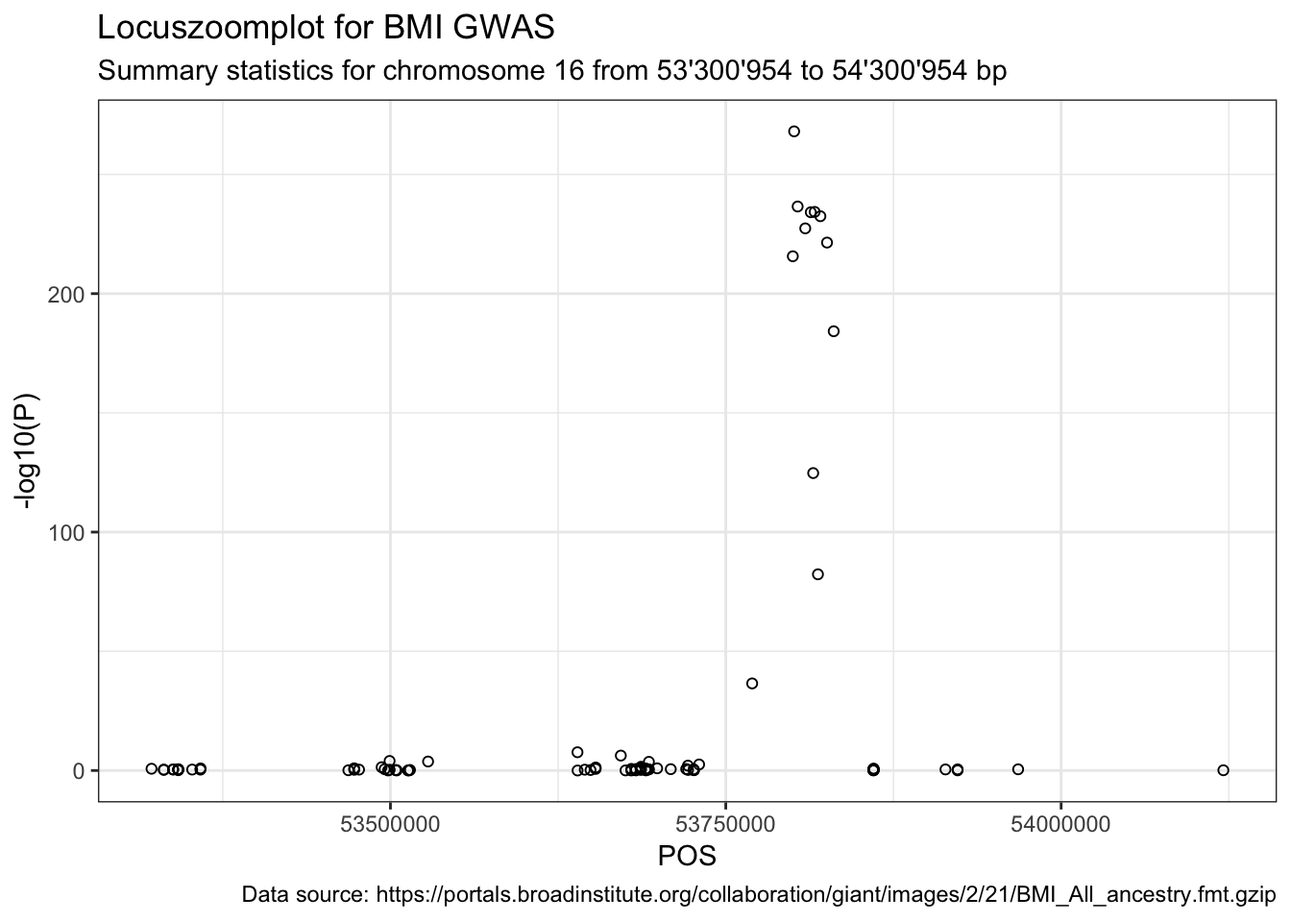
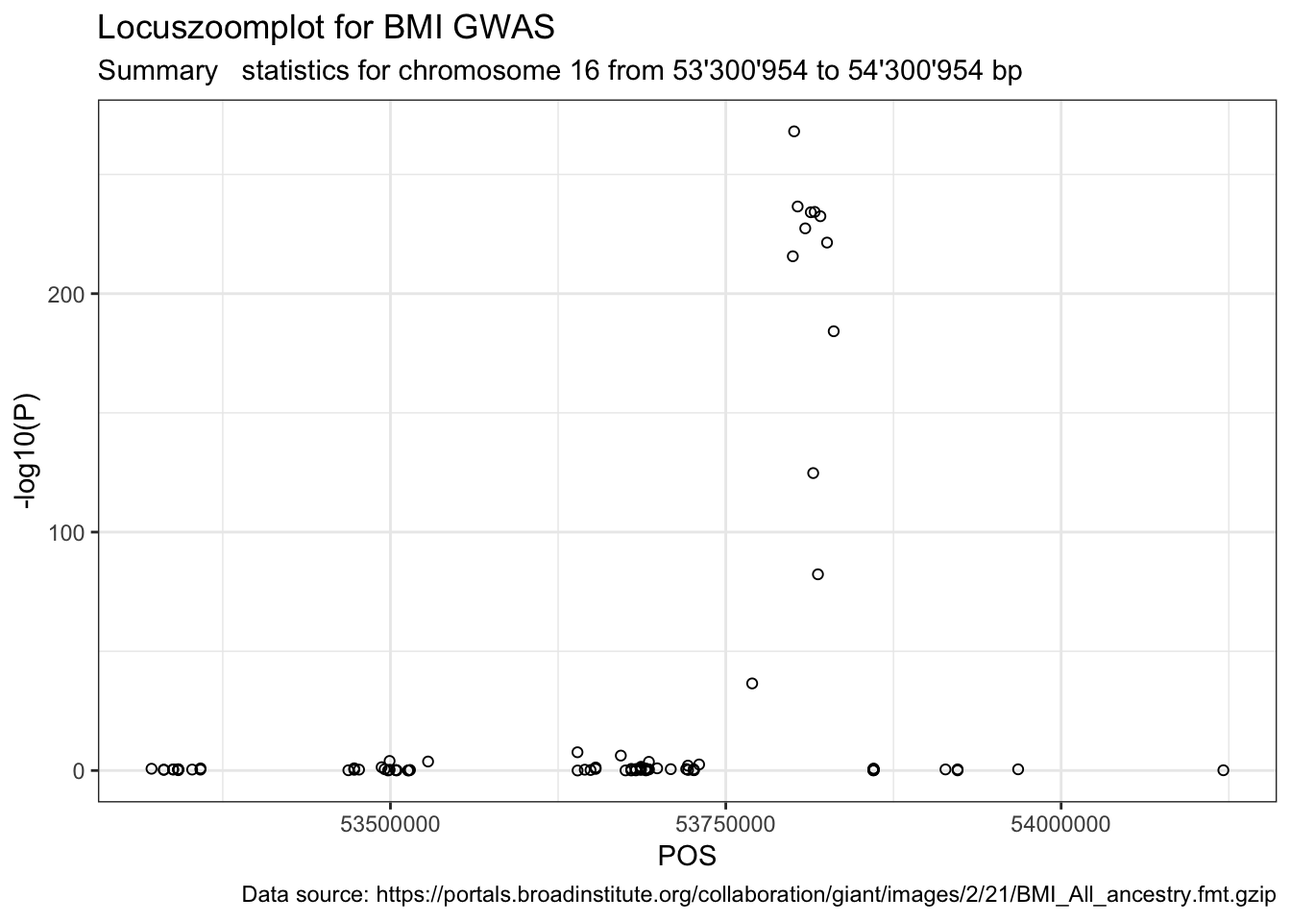
last read through + change color palette

Changed region(s): [[0.1562, 0.0625, 0.8125, 0.0938]]

diff --git a/2018/07/30/locuszoomplot/index.html b/2018/07/30/locuszoomplot/index.html
@@ -112,15 +112,15 @@
 
 <!--make a plot, that did not work with knitting-->
 <!-- what do we want -->
-<p>In the world of <a href="https://www.acsh.org/news/2018/07/27/genome-wide-association-studies-acsh-explains-13234">genome-wide association studies</a> (GWAS) we often get a list of genetic markers (<a href="https://en.wikipedia.org/wiki/Single-nucleotide_polymorphism">SNPs</a>) that seem for some reason relevant for a particular outcome. At the same time, we have little knowledge about these genetic variants that come in cryptic combinations of characters and numbers.</p>
+<p>In the world of <a href="https://www.acsh.org/news/2018/07/27/genome-wide-association-studies-acsh-explains-13234">genome-wide association studies</a> (GWAS) we<a href="#fn1" class="footnoteRef" id="fnref1"><sup>1</sup></a> often get a list of genetic markers (<a href="https://en.wikipedia.org/wiki/Single-nucleotide_polymorphism">SNPs</a>) that seem for some reason relevant for a particular outcome. At the same time, we have little knowledge about these genetic variants that come in cryptic combinations of characters and numbers.</p>
 <p><em>For example:</em></p>
 <ul>
 <li><em>We might get asked how frequent the SNP <a href="https://www.ensembl.org/Homo_sapiens/Variation/Explore?r=16:53766542-53767542;v=rs1421085;vdb=variation;vf=984887"><code>rs1421085</code></a> is in <a href="https://www.ensembl.org/Homo_sapiens/Variation/Population?r=16:53766542-53767542;v=rs1421085;vdb=variation;vf=984887">a range of populations.</a> </em></li>
 <li><em>We need to extract all known SNPs that are within 1 Mb of <code>rs1421085</code>. </em></li>
 <li><em>A genomic region turns out to be highly relevant for some disease and we want to know all genes contained in that genomic region.</em></li>
 </ul>
-<p>Unless you sit on lots of genetic data, the list of SNPs come from a summarised form. Minimally, these summary statistic datasets contain the SNP identifier (<code>SNPNAME</code>, for example <code>rs149969323</code>), the effect size (<code>beta</code>) and the standard error (<code>se</code>). Sometimes the position (<code>POS</code>) and chromosome (<code>CHR</code>) is provided instead of the SNP identifier, and sometimes both are available. Then there is usually other information coming from the study data, for example the allele frequency in the study <i class="ion  ion-arrow-right-a "></i> this is on the LHS in table below. However, hardly ever do the datasets contain <font color="#31a354">annotation</font>, such as the <a href="https://www.cancer.gov/publications/dictionaries/cancer-terms/def/gene">gene</a> where the SNP resides, the phenotypes it is associated with or the minor allele frequency (MAF) in a certain population or <i class="ion  ion-arrow-right-a "></i> this is illustrated in the <font color="#31a354">green</font> colored part in table below.</p>
-<table class="table table-striped table" style="width: auto !important; margin-left: auto; margin-right: auto; font-size: 12px; margin-left: auto; margin-right: auto;">
+<p>Unless you sit on lots of genetic data, the list of SNPs come from a summarised form. Minimally, these summary statistic datasets contain the SNP identifier (<code>SNPNAME</code>), the effect size (<code>beta</code>) and the standard error (<code>se</code>). Sometimes the position (<code>POS</code>) and chromosome (<code>CHR</code>) is provided instead of the SNP identifier, and sometimes both are available. Then there is usually other information coming from the study data, for example the allele frequency in the study <i class="ion  ion-arrow-right-a "></i> this is shown on the LHS in table below. However, hardly ever do the datasets contain <font color="#31a354">annotation</font>, such as the <a href="https://www.cancer.gov/publications/dictionaries/cancer-terms/def/gene">gene</a> where the SNP resides, the phenotypes it is associated with or the minor allele frequency (MAF) in a certain population or <i class="ion  ion-arrow-right-a "></i> this is illustrated in the <font color="#31a354">green</font> colored part in table below.</p>
+<table class="table table-striped table" style="width: auto !important; margin-left: auto; margin-right: auto; font-size: 13px; margin-left: auto; margin-right: auto;">
 <thead>
 <tr>
 <th style="border-bottom:hidden; padding-bottom:0; padding-left:3px;padding-right:3px;text-align: center; " colspan="7">
@@ -160,7 +160,7 @@ se
 Gene
 </th>
 <th style="text-align:left;">
-Phenotype
+Linked phenotype
 </th>
 <th style="text-align:right;">
 Global MAF
@@ -334,22 +334,21 @@ BMI
 <p>To get our hands on annotation, we need to consult external databases that are - lucky us! - public. But first, let us define what we want to see at the <a href="#end">end</a> of the blogpost.</p>
 <div id="goal" class="section level2">
 <h2>Goal</h2>
-<p>For this blogpost, we keep it simple and only focus on the <strong>genes contained in a genomic region</strong>, but this can be easily extended to any other annotation.</p>
-<p>In the illustration below<a href="#fn1" class="footnoteRef" id="fnref1"><sup>1</sup></a>, we want to know the gene starting and end positions around one particular gene region to create an informative locuszoom plot.</p>
+<p>For this blogpost, we keep it simple and only focus on the <strong>genes contained in a genomic region</strong>, but this can be easily extended to any other annotation available in databases.</p>
+<p>In the illustration below<a href="#fn2" class="footnoteRef" id="fnref2"><sup>2</sup></a>, we want to know the gene starting and end positions around one particular gene region to create an informative locuszoom plot.</p>
 <figure>
 <img src="/post/annotation/locuszoom-sketch.png" alt="Drawing of a table." align="middle" style="width: 600px;"/>
 <figcaption>
 <small>In this case, we want to visualise the GWAS P-value (-log10(P-value)) of a genomic region (with each point representing a SNP), with the corresponding genes at the bottom. This is similar to a plot done with <a href="http://locuszoom.org/">LocusZoom</a>, a tool that takes summary statistics as input and outputs a pretty graph for a desired genomic region, including gene annotation, LD information and more. </small>
 </figcaption>
 </figure>
-<p>Annotation of a SNP can be its gene, the function of the gene, which which phenotypes the gene is associated.</p>
 </div>
 <div id="getting-it-done" class="section level2">
 <h2>Getting it done</h2>
 <!---
 
 <!-- how can we achieve this? -->
-<p>There are currently more than 10 Mio SNPs known, and knowing their functions and genes by heart would equal to some super power. Which is why we <i class="ion  ion-heart "></i><a href="#fn2" class="footnoteRef" id="fnref2"><sup>2</sup></a> public databases, such as <a href="https://www.ncbi.nlm.nih.gov/projects/SNP/">dbSNP</a> and <a href="https://www.ensembl.org/index.html">ensembl</a><a href="#fn3" class="footnoteRef" id="fnref3"><sup>3</sup></a>.</p>
+<p>There are currently more than 10 Mio SNPs known, and knowing their functions and genes by heart would equal to some super power. Which is why we <i class="ion  ion-heart "></i><a href="#fn3" class="footnoteRef" id="fnref3"><sup>3</sup></a> public databases, such as <a href="https://www.ncbi.nlm.nih.gov/projects/SNP/">dbSNP</a> and <a href="https://www.ensembl.org/index.html">ensembl</a><a href="#fn4" class="footnoteRef" id="fnref4"><sup>4</sup></a>.</p>
 <p>What we like even more, is, to make our analyses reproducible and automate annotation and lookups.</p>
 <p><i class="ion  ion-arrow-right-a "></i> In this blogpost, I will show how to zoom into GWAS results and annotate the plot based on the information about that genomic region using R. <!--r icon::ii_r_project().--></p>
 <!-- why do we need a locus zoom plot anyway ?-->
@@ -366,7 +365,7 @@ BMI
 <p>First, we need some GWAS summary statistics.</p>
 <p>There are lots of <a href="https://github.com/sinarueeger/statistical-genetics-resources/blob/master/statgen-data.md#gwas-summary-statistic-results"><strong>resources</strong></a> for publicly available GWAS summary statistics.</p>
 <!-- For example, if you would like to download the latest MDD results, search for *'MDD2 2018'*, for BD and SCZ search for *'BIP and SCZ results from Cell Publication, 2018'*.-->
-<p>We will look at BMI, because it can be accessed easily<a href="#fn4" class="footnoteRef" id="fnref4"><sup>4</sup></a> and because it is fairly small for a genomic dataset. The data is from the <a href="https://portals.broadinstitute.org/collaboration/giant/index.php/GIANT_consortium_data_files">Genetic Investigation of ANthropometric Traits</a> (GIANT) consortium. You can <strong>download</strong> the dataset<a href="#fn5" class="footnoteRef" id="fnref5"><sup>5</sup></a> <a href="https://portals.broadinstitute.org/collaboration/giant/index.php/GIANT_consortium_data_files#GWAMA_Age-.2FSex-Stratified_2015_BMI_and_WHR">here</a> or load it <strong>directly into R</strong>.</p>
+<p>We will look at BMI, because it can be accessed easily<a href="#fn5" class="footnoteRef" id="fnref5"><sup>5</sup></a> and because it is fairly small for a genomic dataset. The data is from the <a href="https://portals.broadinstitute.org/collaboration/giant/index.php/GIANT_consortium_data_files">Genetic Investigation of ANthropometric Traits</a> (GIANT) consortium. You can <strong>download</strong> the dataset<a href="#fn6" class="footnoteRef" id="fnref6"><sup>6</sup></a> <a href="https://portals.broadinstitute.org/collaboration/giant/index.php/GIANT_consortium_data_files#GWAMA_Age-.2FSex-Stratified_2015_BMI_and_WHR">here</a> or load it <strong>directly into R</strong>.</p>
 <pre class="r"><code>## Data Source URL
 url &lt;- &quot;https://portals.broadinstitute.org/collaboration/giant/images/2/21/BMI_All_ancestry.fmt.gzip&quot;
 
@@ -413,7 +412,7 @@ dat.bmi &lt;- dat.bmi %&gt;% rename(SNP = SNPNAME, P = Pvalue)</code></pre>
 <p>This dataset has 246328 rows and 10 columns. What if we want to visualise this all at once? In particularly, we are interested if there are ANY associations between the genetic markers and BMI. The mini <code>P</code> distribution in the skimr output does not reveal much.</p>
 <div id="visualising-associations" class="section level3">
 <h3>Visualising associations</h3>
-<p>Visualising all associations at once can be done with a Manhattan plot, where the x-axis represents chromosome<code>CHR</code> and the chromosomal position <code>POS</code>, and the y-axis the <code>-log10(P)</code>-value. Let’s use the R-package <code>qqman</code><a href="#fn6" class="footnoteRef" id="fnref6"><sup>6</sup></a> for that.</p>
+<p>Visualising all associations at once can be done with a Manhattan plot, where the x-axis represents chromosome<code>CHR</code> and the chromosomal position <code>POS</code>, and the y-axis the <code>-log10(P)</code>-value. Let’s use the R-package <code>qqman</code><a href="#fn7" class="footnoteRef" id="fnref7"><sup>7</sup></a> for that.</p>
 <pre class="r"><code>qqman::manhattan(dat.bmi %&gt;% mutate(CHR = as.numeric(as.character(fct_recode(CHR, &quot;23&quot; = &quot;X&quot;)))) %&gt;%   filter(-log10(P)&gt;1), chr=&quot;CHR&quot;, bp=&quot;POS&quot;, snp=&quot;SNP&quot;, p=&quot;P&quot;, suggestiveline =FALSE, genomewideline = FALSE, chrlabs = c(1:22, &quot;X&quot;), cex = 0.4)</code></pre>
 <p><img src="/post/2018-07-04-plotting-local-genomic-association-results-in-r_files/figure-html/mhtplot-1.png" width="672" /></p>
 <p>We can spot immediately, that there are loads of SNPs with P-values smaller than <span class="math inline">\(10^{-100}\)</span> (sample size was around <a href="https://www.biorxiv.org/content/early/2018/03/22/274654">700K</a>).</p>
@@ -426,7 +425,7 @@ QQplot(dat.bmi$P)
 </div>
 <div id="identify-genomic-region-with-lowest-p-value" class="section level3">
 <h3>Identify genomic region with lowest P-value</h3>
-<p>Now that we know that there are lots of genetic markers associated with BMI, we want to look at a specific genomic region and figure out what genes it contains. For illustration, we pick the genomic region with the lowest P-value.</p>
+<p>Now that we know that there are lots of genetic markers associated with BMI, we want to look at a specific genomic region and figure out what genes it contains. For illustrative purposes, we pick the genomic region with the lowest P-value.</p>
 <pre class="r"><code>dat.bmi.sel &lt;- dat.bmi %&gt;% slice(which.min(P))
 dat.bmi.sel</code></pre>
 <pre><code>## # A tibble: 1 x 10
@@ -434,14 +433,16 @@ dat.bmi.sel</code></pre>
 ##   &lt;chr&gt;    &lt;int&gt; &lt;chr&gt; &lt;chr&gt; &lt;chr&gt;   &lt;chr&gt; &lt;chr&gt;    &lt;dbl&gt;  &lt;dbl&gt;     &lt;dbl&gt;
 ## 1 16    53800954 T     C     rs1421… C:0.… -        0.078 0.0022 8.60e-269</code></pre>
 <p>SNP identifier rs1421085 that has the lowest P-value (<span class="math inline">\(P = 8.6\times 10^{-269}\)</span>).</p>
-<p>Now we can visualise the summary statistics of that genomic region (<span class="math inline">\(\pm 500 x 10^{3}\)</span>).</p>
+<p>Now we can visualise the summary statistics of that genomic region (<span class="math inline">\(\pm 500 \cdot 10^{3}\)</span>).</p>
 <pre class="r"><code>range &lt;- 5e+05
 sel.chr &lt;- dat.bmi.sel$CHR
 sel.pos &lt;- dat.bmi.sel$POS
 
 dat.bmi.sel.region &lt;- dat.bmi %&gt;% filter(CHR == sel.chr, between(POS, sel.pos - 
       range, sel.pos + range))</code></pre>
-<pre class="r"><code>p1 &lt;- ggplot(data = dat.bmi.sel.region) + geom_point(aes(POS, -log10(P)), shape = 1) + labs(title = &quot;Locuszoomplot for BMI GWAS&quot;, subtitle = paste(&quot;Summary statistics for chromosome&quot;, sel.chr, &quot;from&quot;, format((sel.pos - range), big.mark = &quot;&#39;&quot;), &quot;to&quot;, format((sel.pos + range), big.mark = &quot;&#39;&quot;), &quot;bp&quot;), caption = paste(&quot;Data source:&quot;, url))
+<pre class="r"><code>p1 &lt;- ggplot(data = dat.bmi.sel.region) + 
+  geom_point(aes(POS, -log10(P)), shape = 1) + 
+  labs(title = &quot;Locuszoomplot for BMI GWAS&quot;, subtitle = paste(&quot;Summary   statistics for chromosome&quot;, sel.chr, &quot;from&quot;, format((sel.pos - range), big.mark = &quot;&#39;&quot;), &quot;to&quot;, format((sel.pos + range), big.mark = &quot;&#39;&quot;), &quot;bp&quot;), caption = paste(&quot;Data source:&quot;, url))
 print(p1)</code></pre>
 <p><img src="/post/2018-07-04-plotting-local-genomic-association-results-in-r_files/figure-html/plot-summarystats-1.png" width="672" /></p>
 <p>Next, we want to know if rs1421085 is part of a gene, and if yes, which one.</p>
@@ -462,21 +463,21 @@ Did you ever want to reproducibly retrieve thousands of genomes across the tree 
 </blockquote>
 <script async src="https://platform.twitter.com/widgets.js" charset="utf-8"></script>
 <p>So far, I did not fully grasp the benefits of <code>biomartr</code> compared to <code>biomaRt</code> for annotation of human data. But I will definitely <a href="https://ropensci.github.io/biomartr/articles/Functional_Annotation.html">look more into it</a>.</p>
-<p><a href="https://twitter.com/MariannaFoos">Marianna Foos</a> pointed out another great R-package dealing with SNP annotation called <a href="https://cran.r-project.org/web/packages/rsnps/vignettes/rsnps_vignette.html"><code>rsnps</code></a>.</p>
+<p>I also got a tip from <a href="https://twitter.com/MariannaFoos">Marianna Foos</a> to check out <a href="https://cran.r-project.org/web/packages/rsnps/vignettes/rsnps_vignette.html"><code>rsnps</code></a>, an R-package dealing with SNP annotation.</p>
 </div>
 <div id="learning-resources" class="section level3">
 <h3>Learning resources</h3>
 <p>I used mainly two sources to learn what I wanted to do:</p>
 <ul>
-<li><a href="https://www.bioconductor.org/packages/devel/bioc/vignettes/biomaRt/inst/doc/biomaRt.html">Vignette of biomaRt</a> on Bioconductor<a href="#fn7" class="footnoteRef" id="fnref7"><sup>7</sup></a>.</li>
-<li><a href="https://stackoverflow.com/questions/41490657/best-way-to-get-list-of-snps-by-gene-id">A question on StackOverflow</a></li>
+<li><a href="https://www.bioconductor.org/packages/devel/bioc/vignettes/biomaRt/inst/doc/biomaRt.html">Vignette of biomaRt</a> on Bioconductor<a href="#fn8" class="footnoteRef" id="fnref8"><sup>8</sup></a>.</li>
+<li><a href="https://stackoverflow.com/questions/41490657/best-way-to-get-list-of-snps-by-gene-id">This question</a> on StackOverflow.</li>
 </ul>
 </div>
 <div id="using-biomart" class="section level3">
 <h3>Using biomaRt</h3>
-<p>First we need to load the <code>biomaRt</code> <a href="https://bioconductor.org/packages/release/bioc/html/biomaRt.html">package from Bioconductor</a>.</p>
+<p>First, we need to load the <code>biomaRt</code> <a href="https://bioconductor.org/packages/release/bioc/html/biomaRt.html">package from Bioconductor</a>.</p>
 <pre class="r"><code>library(biomaRt) </code></pre>
-<p>Next we specify which database to use. You can use the functions <code>listMart()</code>, <code>listEnsembl()</code> and <code>listDatasets()</code> to select from the right biomart and dataset. We will need to extract SNPs, hence the <code>biomart = &quot;snp&quot;</code>.</p>
+<p>Next we specify which database to use. You can use the functions <code>listMart()</code>, <code>listEnsembl()</code> and <code>listDatasets()</code> to select from the right biomart and dataset. We will need to extract SNPs, hence <code>biomart = &quot;snp&quot;</code>.</p>
 <pre class="r"><code>snp.ensembl &lt;- useEnsembl(biomart = &quot;snp&quot;, dataset = &quot;hsapiens_snp&quot;)
 
 class(snp.ensembl)</code></pre>
@@ -484,8 +485,8 @@ class(snp.ensembl)</code></pre>
 ## attr(,&quot;package&quot;)
 ## [1] &quot;biomaRt&quot;</code></pre>
 <pre class="r"><code># other ways of selecting the mart snp.mart &lt;- useMart(biomart =
-# &#39;ENSEMBL_MART_SNP&#39;, dataset=&#39;hsapiens_snp&#39;) gene.mart &lt;-
-# useMart(&#39;ensembl&#39;, dataset=&#39;hsapiens_gene_ensembl&#39;)</code></pre>
+# &#39;ENSEMBL_MART_SNP&#39;, dataset=&#39;hsapiens_snp&#39;) 
+# gene.mart &lt;- useMart(&#39;ensembl&#39;, dataset=&#39;hsapiens_gene_ensembl&#39;)</code></pre>
 <p>Last, we extract the gene id to which our SNP belongs using the function <code>getBM()</code>. Along with that we also extract other information, like the minor allele frequency <code>minor_allele_freq</code>. To check which attributes and filters are available, run <code>listAttributes(snp.ensembl)</code> and <code>listFilters(snp.ensembl)</code>.</p>
 <pre class="r"><code>out.bm &lt;- getBM(
   attributes = c(&quot;ensembl_gene_stable_id&quot;, 
@@ -498,7 +499,7 @@ class(snp.ensembl)</code></pre>
   filters = &quot;snp_filter&quot;, 
   values = dat.bmi.sel$SNP, 
   mart = snp.ensembl)</code></pre>
-<p>This gives us - as chosen in <code>attributes</code> - the gene identifier, the SNP identifier, the chromosome name, chromosomal position (start + end), minor allele and minor allele frequency. The output in <code>out.bm</code> corresponds to this webpage entry on the <a href="https://www.ensembl.org/Homo_sapiens/Variation/Explore?r=16:53766542-53767542;v=rs1421085;vdb=variation;vf=984887">ensembl webpage</a>.</p>
+<p>This gives us - as chosen in <code>attributes</code> - the gene identifier, the SNP identifier, the chromosome name, chromosomal position (start + end), minor allele and minor allele frequency. The output in <code>out.bm</code> corresponds to <a href="https://www.ensembl.org/Homo_sapiens/Variation/Explore?r=16:53766542-53767542;v=rs1421085;vdb=variation;vf=984887">this</a> webpage entry on the ensembl webpage.</p>
 <pre class="r"><code>out.bm</code></pre>
 <pre><code>##   ensembl_gene_stable_id refsnp_id chr_name chrom_start chrom_end
 ## 1        ENSG00000140718 rs1421085       16    53767042  53767042
@@ -507,12 +508,12 @@ class(snp.ensembl)</code></pre>
 </div>
 <div id="quick-d-tour-assembly-grch37-or-grch38" class="section level3">
 <h3>Quick d-tour: assembly GRCh37 or GRCh38?</h3>
-<p>Before getting the gene names, we want to check if the position in the dataset are from assembly GRCh37 or GRCh38. This is a handy thing, because oftentimes only SNP identifiers are reported. Or SNP identifiers are reported, but with positions on a different assembly.</p>
+<p>Before getting the gene names, we want to check if the position in the dataset are from assembly GRCh37 or GRCh38. This is a handy thing, because oftentimes only SNP identifiers are reported. Or SNP identifiers are reported, but with positions on a <a href="https://en.wikipedia.org/wiki/Reference_genome">different assembly</a>.</p>
 <pre class="r"><code>ifelse(sel.pos == out.bm$chrom_start, 
        &quot;\u2713: same assembley (GRCh38)&quot;, 
        &quot;\u2717: not the same assembley&quot;)</code></pre>
 <pre><code>## [1] &quot;✗: not the same assembley&quot;</code></pre>
-<p>The position is not matching, because the database that we are looking at is based on the most recent <code>human assembly GRCh38</code>, but the BMI summary statistics dataset is based on <a href="https://grch37.ensembl.org/index.html"><code>human assembly GRCh37</code></a>. The command <code>listEnsemblArchives()</code> will list you the URLs needed to get access to an archived assembly. So let’s pull out the archived GRCh37 version with the argument <code>host = 'http://grch37.ensembl.org'</code>.</p>
+<p>The position is not matching, because the databases that we are looking at is based on the most recent <code>human assembly GRCh38</code>, but the BMI summary statistics dataset is based on <a href="https://grch37.ensembl.org/index.html"><code>human assembly GRCh37</code></a>. The command <code>listEnsemblArchives()</code> will list you the URLs needed to get access to an archived assembly. So let’s pull out the archived GRCh37 version with the argument <code>host = 'http://grch37.ensembl.org'</code>.</p>
 <pre class="r"><code>snp.ensembl.grch37 &lt;- useMart(host=&#39;http://grch37.ensembl.org&#39;, 
                      biomart=&#39;ENSEMBL_MART_SNP&#39;, 
                      dataset=&#39;hsapiens_snp&#39;)
@@ -567,11 +568,11 @@ out.bm.gene &lt;- getBM(attributes = c(&#39;external_gene_name&#39;),
 out.bm.gene</code></pre>
 <pre><code>##   external_gene_name
 ## 1                FTO</code></pre>
-<p>The gene is called FTO.</p>
+<p>The gene that contains SNP rs1421085 is called FTO.</p>
 </div>
 <div id="extracting-gene-names-for-genomic-region" class="section level3">
 <h3>Extracting gene names for genomic region</h3>
-<p>So now we know that rs1421085 is part of FTO. But where does FTO start and end? And what are the genes nearby? For this purpose, we want to visualise the summary statistics of the full genomic region (<span class="math inline">\(\pm 250 \cdot 10^3\)</span> Mb).</p>
+<p>So now we know that rs1421085 is part of FTO. But where does FTO start and end? And what are the genes nearby? For this purpose, we want to visualise the summary statistics of the full genomic region (<span class="math inline">\(\pm 250 \cdot 10^3\)</span> Mb). We just recycle the previous code, but instead of providing a SNP-id, we provide the chromosome, the start and the end position.</p>
 <pre class="r"><code>out.bm.genes.region &lt;- getBM(
   attributes = c(&#39;start_position&#39;,&#39;end_position&#39;,&#39;ensembl_gene_id&#39;,&#39;external_gene_name&#39;, &#39;gene_biotype&#39;), 
       filters = c(&#39;chromosome_name&#39;,&#39;start&#39;,&#39;end&#39;), 
@@ -603,7 +604,7 @@ ggplot(data = out.bm.genes.region) +
   coord_flip() + 
   ylab(&quot;&quot;)</code></pre>
 <p><img src="/post/2018-07-04-plotting-local-genomic-association-results-in-r_files/figure-html/plot-genes-1.png" width="672" /></p>
-<p>Let’s try to make that pretty. We can group the genes by <code>gene_biotype</code> and colour them accordingly. And we move the protein coding genes to the top row.</p>
+<p>Let’s try to make that pretty. We can group the genes by <code>gene_biotype</code> and colour them accordingly. And we move the protein-coding genes to the top row and color it black.</p>
 <pre class="r"><code>## define plot range for x-axis
 plot.range &lt;- c(min(sel.pos - range, out.bm.genes.region$start_position), 
       max(sel.pos + range, out.bm.genes.region$end_position))
@@ -615,28 +616,42 @@ out.bm.genes.region &lt;- out.bm.genes.region %&gt;% mutate(gene_biotype_fac = f
 
 
 ## plot
-p2 &lt;- ggplot(data = out.bm.genes.region) + geom_linerange(aes(x = external_gene_name, ymin = start_position, ymax = end_position, colour = gene_biotype, group = gene_biotype)) + coord_flip() + ylab(&quot;&quot;) + ylim(plot.range) + geom_text(aes(x = external_gene_name, y = start_position, label = external_gene_name, colour = gene_biotype_fac), alpha = I(0.7), hjust = &quot;right&quot;, size= 2.5) + labs(title = &quot;&quot;, subtitle = paste(&quot;Genes&quot;), caption = paste(&quot;Data source:&quot;, gene.ensembl@host, &quot;/&quot;, gene.ensembl@dataset)) + scale_colour_discrete(name=&quot;Gene Biotype&quot;) + theme(axis.title.y=element_blank(),
+p2 &lt;- ggplot(data = out.bm.genes.region) + 
+  geom_linerange(aes(x = external_gene_name, ymin = start_position, ymax = end_position, colour = gene_biotype_fac, group = gene_biotype_fac)) +
+  coord_flip() + ylab(&quot;&quot;) +
+  ylim(plot.range) + 
+  geom_text(aes(x = external_gene_name, y = start_position, label = external_gene_name, colour = gene_biotype_fac), fontface = 2, alpha = I(0.7), hjust = &quot;right&quot;, size= 2.5) + 
+  labs(title = &quot;&quot;, subtitle = paste(&quot;Genes&quot;), caption = paste(&quot;Data source:&quot;, gene.ensembl@host, &quot;/&quot;, gene.ensembl@dataset)) +
+  scale_colour_discrete(name=&quot;Gene Biotype&quot;) +
+  theme(axis.title.y=element_blank(),
         axis.text.y=element_blank(),
         axis.ticks.y=element_blank(), 
         strip.text.y = element_text(angle = 0),
         legend.position=&quot;bottom&quot;, 
-        panel.grid.major.y = element_blank()) + expand_limits(y=c(-1, 1))
-
+        panel.grid.major.y = element_blank()) + 
+  expand_limits(y=c(-1, 1)) +
+  scale_color_manual(values = c(&quot;black&quot;, metafolio::gg_color_hue(nlevels(out.bm.genes.region$gene_biotype_fac)-1)))</code></pre>
+<pre><code>## Scale for &#39;colour&#39; is already present. Adding another scale for
+## &#39;colour&#39;, which will replace the existing scale.</code></pre>
+<pre class="r"><code>  ## hack to have 11 colors, but probably merging some gene biotype groups could make sense too. 
+  ## consider colorblindr::palette_OkabeIto_black
 print(p2)</code></pre>
 <p><img src="/post/2018-07-04-plotting-local-genomic-association-results-in-r_files/figure-html/plot-genes-pretty-1.png" width="672" /></p>
-<p>There are some short genes starting with <em>AC</em> and <em>LINCO</em> and <em>RINU</em>. We can <a href="https://www.genenames.org/about/guidelines">check</a> what they are.</p>
+<p>There are some short genes starting with <em>AC</em> and <em>LINCO</em>. We can <a href="https://www.genenames.org/about/guidelines">check</a> what they are and/or consult a biologist.</p>
 <!-- GWAS + biomart info -->
 </div>
 </div>
 <div id="end" class="section level2">
 <h2>3. Combining summary statistics and annotation</h2>
+<p>Now we are ready to combine plot <code>p1</code> and <code>p2</code>.</p>
 <pre class="r"><code>library(patchwork)
 
 p1b &lt;- p1 + xlab(&quot;&quot;) + theme(axis.title.x=element_blank(), axis.text.x=element_blank(), axis.ticks.x=element_blank()) + xlim(plot.range)
 
 p1b + p2 + plot_layout(ncol = 1, heights = c(6, 6))</code></pre>
 <p><img src="/post/2018-07-04-plotting-local-genomic-association-results-in-r_files/figure-html/summarystats-genes-1.png" width="672" /></p>
-<p>Having both plots combined, we can spot that the are 6 protein coding genes in the region. But the P-value peak is located in gene FTO.</p>
+<p>Having both plots combined, we can spot that the are 6 protein-coding genes in the region. But the P-value peak is located in gene FTO.</p>
+<p>If this were work done for a real project, this would now be the time to get back to domain experts, discuss the results and figure out what other annotation they need<a href="#fn9" class="footnoteRef" id="fnref9"><sup>9</sup></a>.</p>
 </div>
 <div id="wouldnt-it-be-nice" class="section level2">
 <h2>Wouldn’t it be nice…</h2>
@@ -658,13 +673,15 @@ p1b + p2 + plot_layout(ncol = 1, heights = c(6, 6))</code></pre>
 <div class="footnotes">
 <hr />
 <ol>
-<li id="fn1"><p>Thanks to <a href="https://twitter.com/ma_salmon">Maëlle Salmon</a> you get a real plot here instead of a blurry hand drawing 😉 She gave lots of feedback on my first version - much appreciated!<a href="#fnref1">↩</a></p></li>
-<li id="fn2"><p>Awesome icons in R? <i class="ion  ion-camera "></i> <i class="ion  ion-thumbsup "></i> <i class="ion  ion-social-apple "></i> <i class="ion  ion-paperclip "></i> <i class="ion  ion-arrow-right-a "></i> checkout <a href="https://ropensci.org/technotes/2018/05/15/icon/">these instructions by Mitchell O’Hara-Wild on the rOpenSci webpage</a>.<a href="#fnref2">↩</a></p></li>
-<li id="fn3"><p>Thanks to my colleagues with biology background for explaining me the differences between these databases and what a biomart is!<a href="#fnref3">↩</a></p></li>
-<li id="fn4"><p>Initially, I wanted to use data from two recent studies by the <a href="https://www.med.unc.edu/pgc/">Psychiatric Genomics Consortium</a> (PGC) on <a href="https://www.sciencedirect.com/science/article/pii/S0092867418306585?via%3Dihub">schizophrenia (SCZ) and bipoloar disorder (BD)</a>, as well as <a href="https://www.nature.com/articles/s41588-018-0090-3">Major depressive disorder (MDD)</a>. Like most consortia, PGC provides summary statistics that can be <a href="https://www.med.unc.edu/pgc/results-and-downloads/downloads">downloaded</a>. However, before downloading anything, the user needs to acknowledge and agree to a list of conditions - which I think is an excellent approach! - therefore we cannot directly load it into R.<a href="#fnref4">↩</a></p></li>
-<li id="fn5"><p>Data source: <a href="https://www.biorxiv.org/content/early/2018/03/22/274654">Yengo et al. (2018)</a>.<a href="#fnref5">↩</a></p></li>
-<li id="fn6"><p>A guide to crafting Manhattan plots by <a href="https://github.com/holtzy/">Yan Holtz</a> for the <a href="https://www.r-graph-gallery.com/wp-content/uploads/2018/02/Manhattan_plot_in_R.html">R graph gallery</a><a href="#fnref6">↩</a></p></li>
-<li id="fn7"><p>I recently listened to a podcast by <a href="https://twitter.com/trashystats">Saskia Freytag</a> and <a href="https://twitter.com/nj_tierney">NJ Tierney</a> where they talk about the differences between CRAN and Bioconductor (there are many!). The podcast is called <a href="https://soundcloud.com/crediblycurious/episode-1-cran-and-bioconductor">Credibly Curious</a>.<a href="#fnref7">↩</a></p></li>
+<li id="fn1"><p>Data analysts<a href="#fnref1">↩</a></p></li>
+<li id="fn2"><p>Thanks to <a href="https://twitter.com/ma_salmon">Maëlle Salmon</a> you get a real plot here instead of a blurry hand drawing 😉 She gave lots of feedback on my first version - much appreciated!<a href="#fnref2">↩</a></p></li>
+<li id="fn3"><p>Awesome icons in R? <i class="ion  ion-camera "></i> <i class="ion  ion-thumbsup "></i> <i class="ion  ion-social-apple "></i> <i class="ion  ion-paperclip "></i> <i class="ion  ion-arrow-right-a "></i> checkout <a href="https://ropensci.org/technotes/2018/05/15/icon/">these instructions by Mitchell O’Hara-Wild on the rOpenSci webpage</a>.<a href="#fnref3">↩</a></p></li>
+<li id="fn4"><p>Thanks to my colleagues with biology background for explaining me the differences between these databases and what a biomart is!<a href="#fnref4">↩</a></p></li>
+<li id="fn5"><p>Initially, I wanted to use data from two recent studies by the <a href="https://www.med.unc.edu/pgc/">Psychiatric Genomics Consortium</a> (PGC) on <a href="https://www.sciencedirect.com/science/article/pii/S0092867418306585?via%3Dihub">schizophrenia (SCZ) and bipoloar disorder (BD)</a>, as well as <a href="https://www.nature.com/articles/s41588-018-0090-3">Major depressive disorder (MDD)</a>. Like most consortia, PGC provides summary statistics that can be <a href="https://www.med.unc.edu/pgc/results-and-downloads/downloads">downloaded</a>. However, before downloading anything, the user needs to acknowledge and agree to a list of conditions - which I think is an excellent approach! - therefore we cannot directly load it into R.<a href="#fnref5">↩</a></p></li>
+<li id="fn6"><p>Data source: <a href="https://www.biorxiv.org/content/early/2018/03/22/274654">Yengo et al. (2018)</a>.<a href="#fnref6">↩</a></p></li>
+<li id="fn7"><p>A guide to crafting Manhattan plots by <a href="https://github.com/holtzy/">Yan Holtz</a> for the <a href="https://www.r-graph-gallery.com/wp-content/uploads/2018/02/Manhattan_plot_in_R.html">R graph gallery</a><a href="#fnref7">↩</a></p></li>
+<li id="fn8"><p>I recently listened to a podcast by <a href="https://twitter.com/trashystats">Saskia Freytag</a> and <a href="https://twitter.com/nj_tierney">NJ Tierney</a> where they talk about the differences between CRAN and Bioconductor (there are many!). The podcast is called <a href="https://soundcloud.com/crediblycurious/episode-1-cran-and-bioconductor">Credibly Curious</a>.<a href="#fnref8">↩</a></p></li>
+<li id="fn9"><p>+1 for reproducibility!<a href="#fnref9">↩</a></p></li>
 </ol>
 </div>
 
